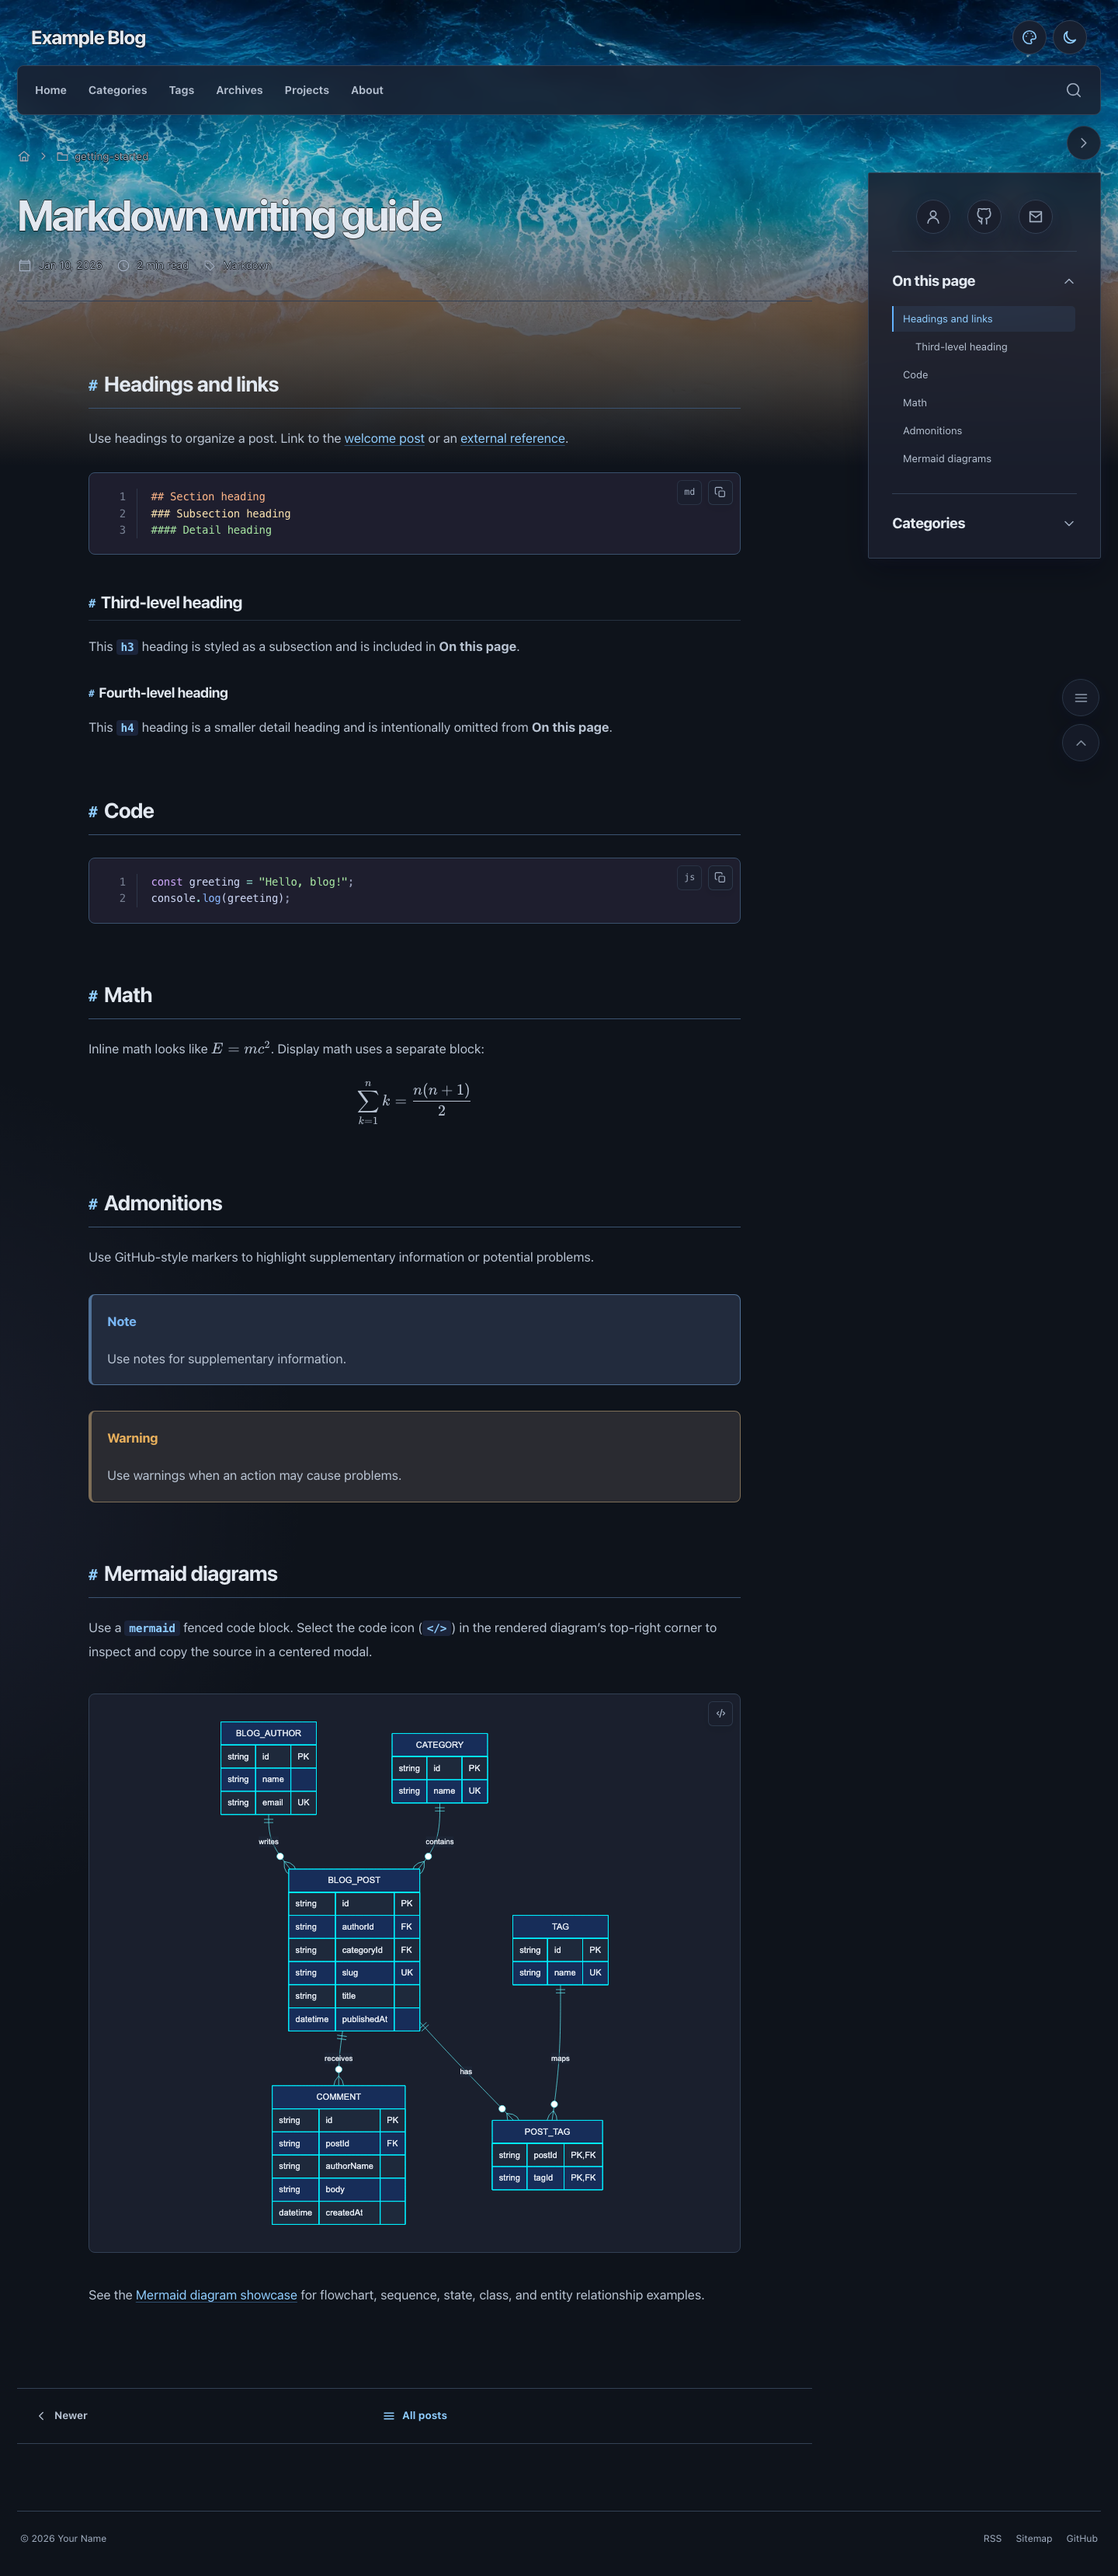
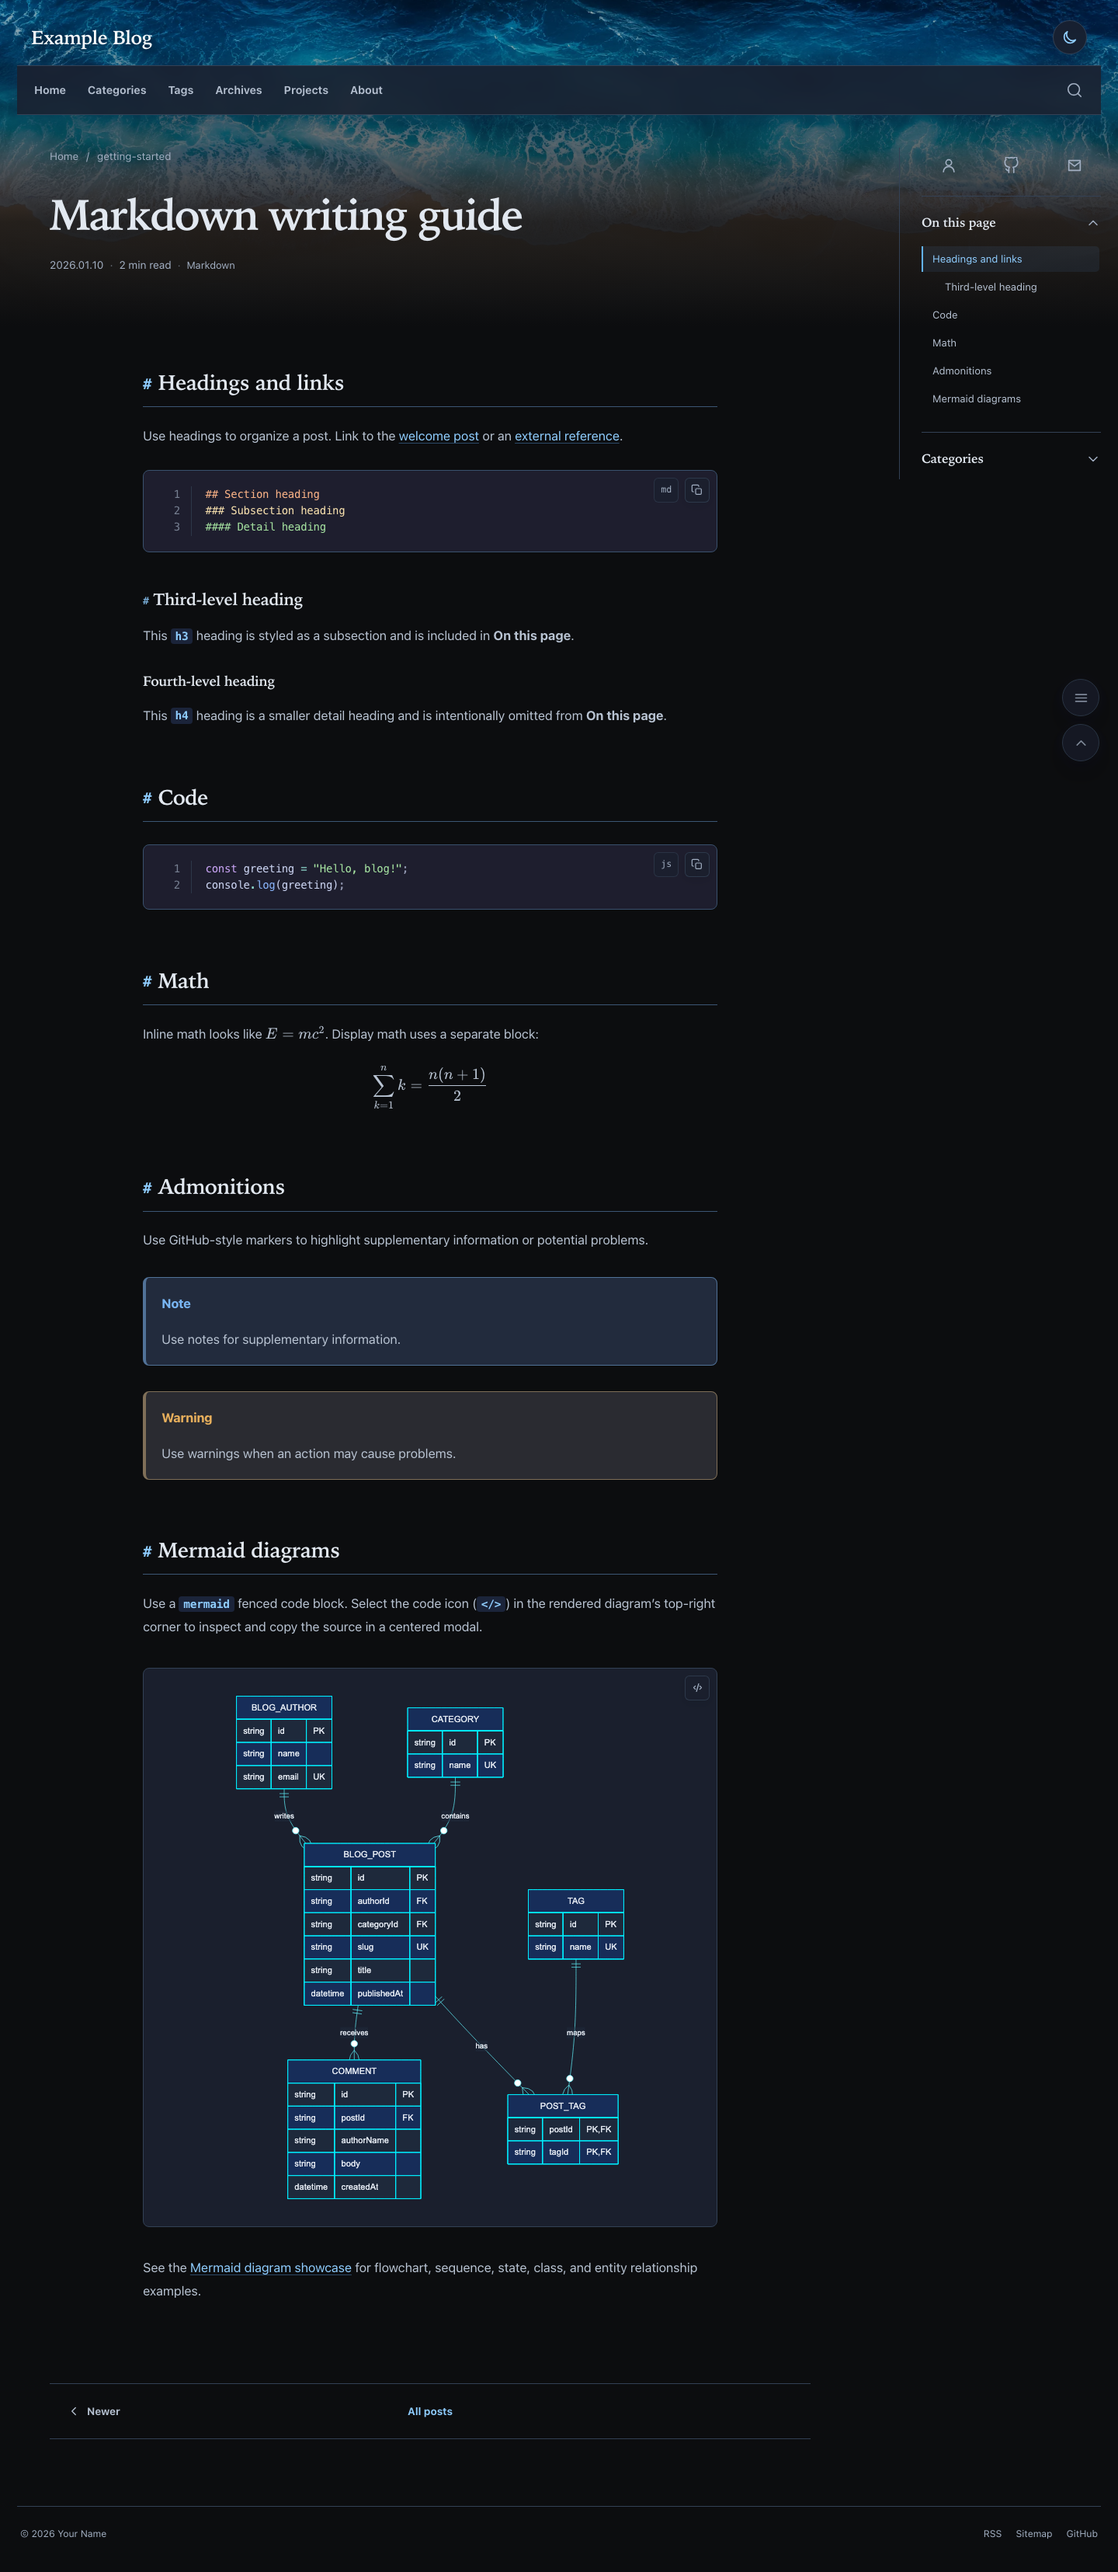
docs: refresh template previews

diff --git a/src/styles/global.css b/src/styles/global.css
@@ -2390,12 +2390,12 @@ body.has-hero-background {
 }
 
 .project-hero {
+  display: block;
   width: min(100%, 1040px);
-  max-height: 620px;
+  height: auto;
   margin: 42px auto 0;
   border: 1px solid var(--line);
   border-radius: 6px;
-  object-fit: cover;
 }
 
 .project-content {

diff --git a/README.md b/README.md
@@ -21,8 +21,6 @@ banner. Replace its image for your site, or disable it with one setting.
 
 ## Preview
 
-### Dark
-
 **Post list**
 
 ![Post list in dark mode](public/images/site/template-preview.png)
@@ -30,16 +28,6 @@ banner. Replace its image for your site, or disable it with one setting.
 **Markdown post**
 
 ![Full Markdown post in dark mode](public/images/site/template-post-dark.png)
-
-### Light
-
-**Post list**
-
-![Post list in light mode](public/images/site/template-preview-light.png)
-
-**Markdown post**
-
-![Full Markdown post in light mode](public/images/site/template-post-light.png)
 
 ## What you edit
 
